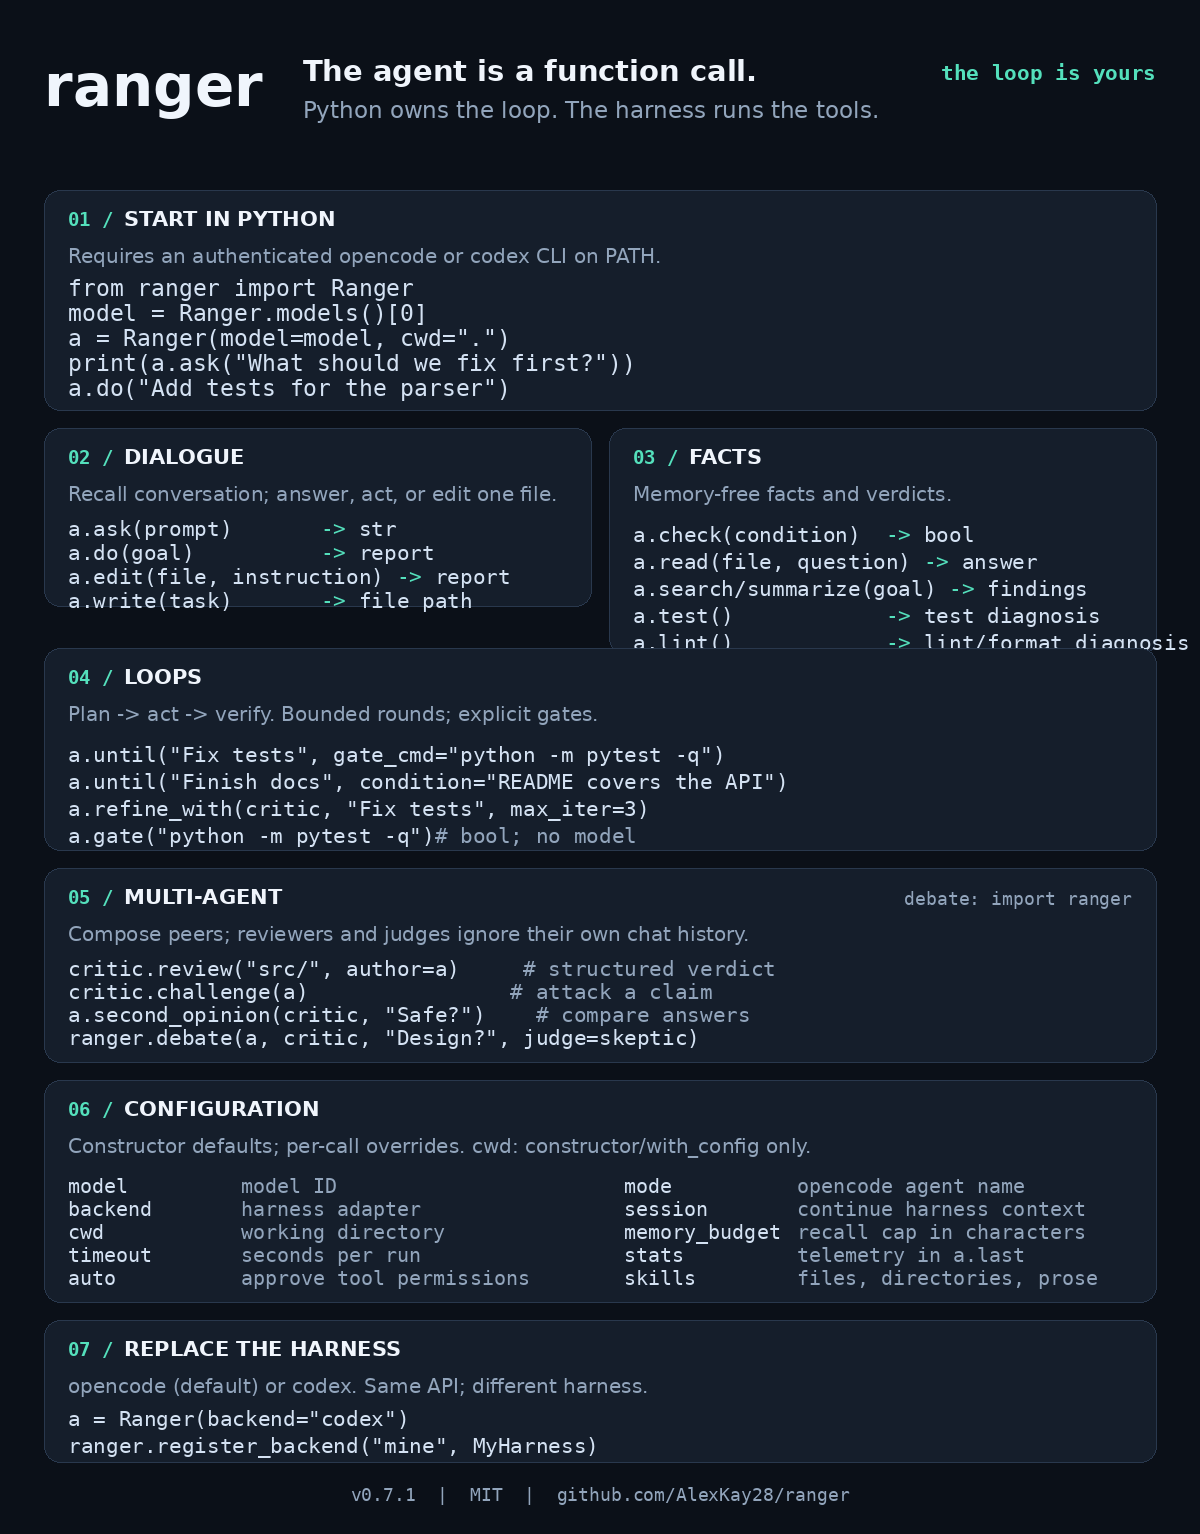
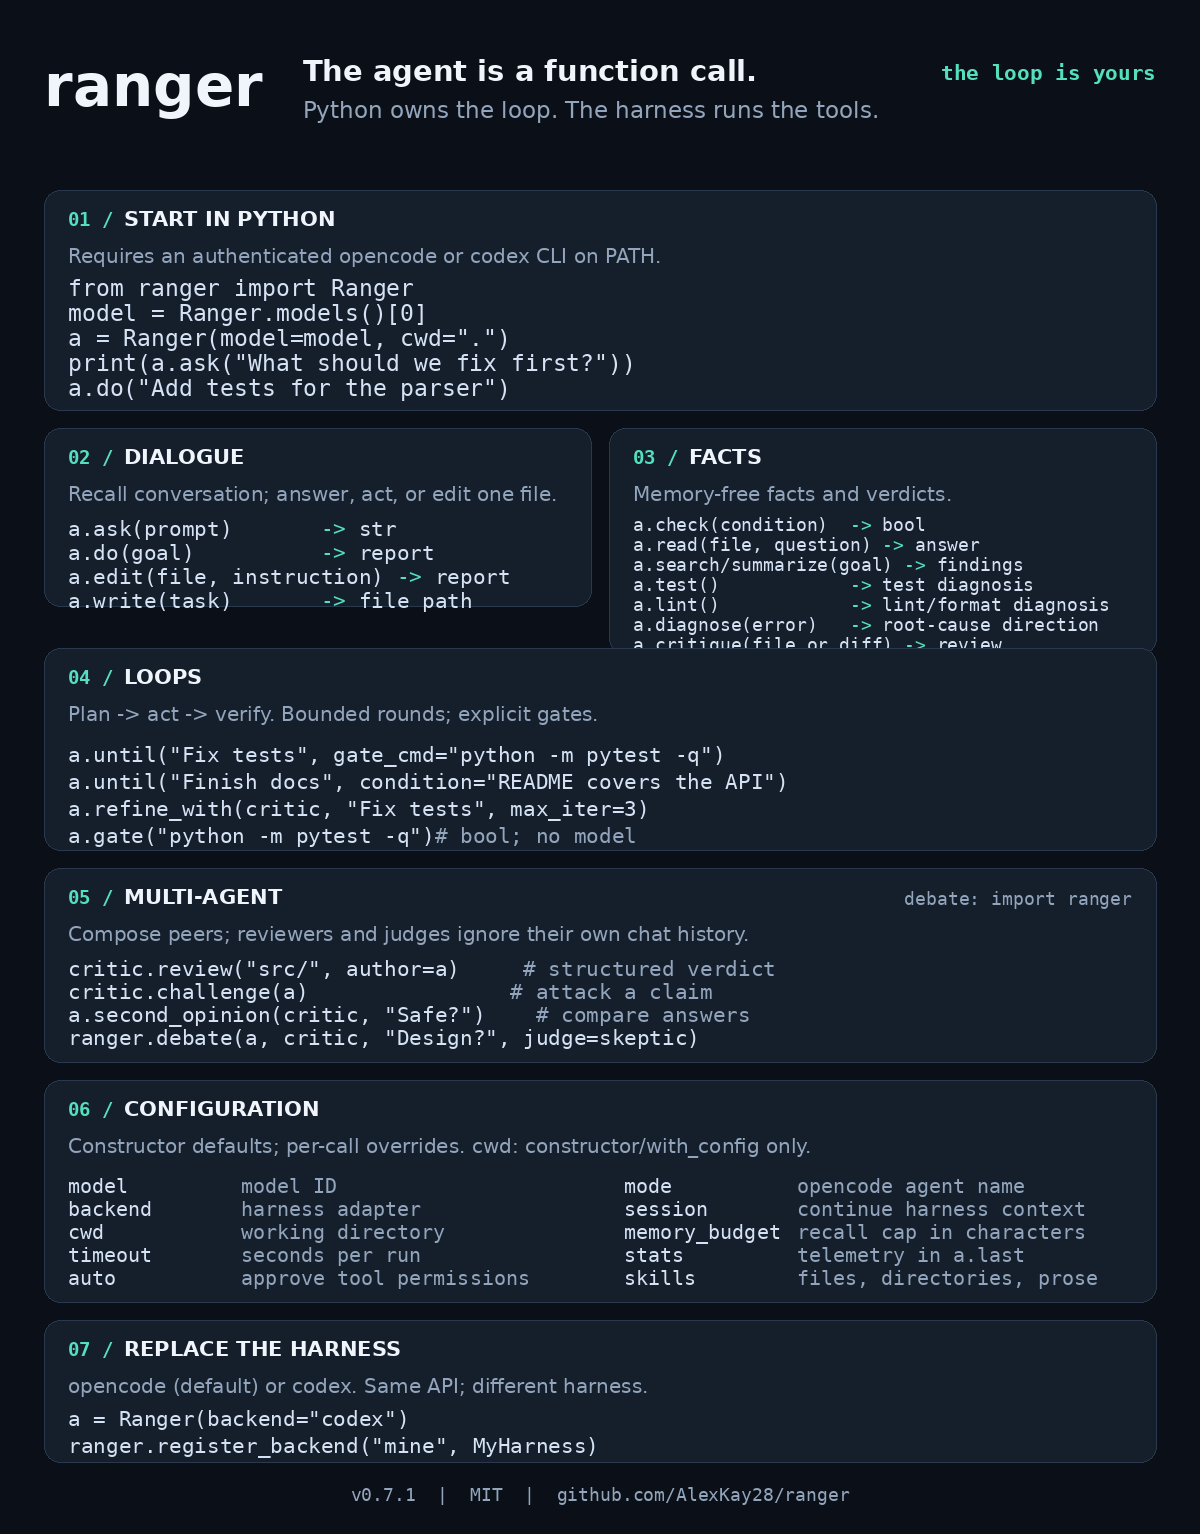
auto evolve (cycle 5): Add a read-only `diagnose(error)` command for pasted tracebacks and error logs
Self-directed improvement picked and resolved by scripts/evolve_loop.py via ranger.resolve(); gate: full pytest suite green + real-change check.

Original proposal: Thinking: **Clarifying exact line read requirement**
Thinking: **Evaluating read-only command alternatives**
Thinking: **Adding diagnose(error) for traceback analysis**
TITLE: Add a read-only `diagnose(error)` command for pasted tracebacks and error logs
WHY: Let library users turn a production exception or command failure into an evidence-backed root-cause and minimal-fix diagnosis without rerunn

Changed region(s): [[0.5242, 0.337, 0.925, 0.4289], [0.9558, 0.3983, 0.9867, 0.4289]]

diff --git a/tests/test_ranger.py b/tests/test_ranger.py
@@ -288,6 +288,7 @@ def test_command_prompt_contents(tmp_path):
         agent.search("where is config parsed")
         assert agent.test(timeout=42) == "ok"
         assert agent.lint(timeout=42) == "ok"
+        assert agent.diagnose("ValueError: bad token", timeout=42) == "ok"
         assert agent.critique("src/parser.py", timeout=42) == "ok"
 
     assert str(target.resolve()) in prompts[0]
@@ -306,10 +307,14 @@ def test_command_prompt_contents(tmp_path):
     assert "lint and format checks" in prompts[6]
     assert "do NOT modify" in prompts[6]
     assert "minimal remediation" in prompts[6]
-    assert "src/parser.py" in prompts[7]
+    assert "ValueError: bad token" in prompts[7]
     assert "do NOT modify" in prompts[7]
-    assert "security" in prompts[7]
-    assert "missing tests" in prompts[7]
+    assert "root cause" in prompts[7]
+    assert "minimal fix direction" in prompts[7]
+    assert "src/parser.py" in prompts[8]
+    assert "do NOT modify" in prompts[8]
+    assert "security" in prompts[8]
+    assert "missing tests" in prompts[8]
 
 
 def test_test_returns_harness_diagnosis_and_forwards_overrides():
@@ -341,6 +346,29 @@ def test_lint_is_pure_and_forwards_overrides():
     assert cmd[cmd.index("--model") + 1] == "fast/model"
     assert m.call_args.kwargs["timeout"] == 42
     assert agent.last["label"] == "lint"
+
+
+def test_diagnose_is_pure_and_forwards_overrides():
+    agent = Ranger(stats=True, session="ses_hist")
+    agent.context = [{"role": "user", "content": "previous answer"}]
+    payload = ('{"sessionID":"ses_diagnose","part":{"type":"text",'
+               '"text":"The parser rejects an empty token."}}')
+    error = "Traceback (most recent call last):\nValueError: bad token"
+    with mock.patch("ranger.subprocess.run", return_value=fake_run(payload)) as m:
+        assert agent.diagnose(error, model="fast/model", timeout=42) == (
+            "The parser rejects an empty token."
+        )
+    cmd = m.call_args.args[0]
+    prompt = cmd[-1]
+    assert error in prompt
+    assert "do NOT modify" in prompt
+    assert "evidence-backed" in prompt
+    assert "root cause" in prompt
+    assert "Previous interaction" not in prompt
+    assert "ses_hist" not in cmd
+    assert cmd[cmd.index("--model") + 1] == "fast/model"
+    assert m.call_args.kwargs["timeout"] == 42
+    assert agent.last["label"] == "diagnose"
 
 
 def test_critique_is_pure_and_forwards_overrides():

diff --git a/ranger/__init__.py b/ranger/__init__.py
@@ -420,7 +420,7 @@ register_backend("openhands", _OpenHandsBackend)
 # Commands whose answers must be pure facts about the world, never colored
 # by conversation history (paradigm law: context memory colors dialogues,
 # never facts). Recall is skipped for these; recording still happens.
-_PURE_LABELS = frozenset({"check", "critique", "lint", "read", "search", "summarize", "test"})
+_PURE_LABELS = frozenset({"check", "critique", "diagnose", "lint", "read", "search", "summarize", "test"})
 
 # How many characters of recorded context a run may recall, max.
 _MEMORY_BUDGET = 20000
@@ -919,6 +919,22 @@ class Ranger:
             "that outcome and the command(s) run."
         )
         return self._run(prompt, label="lint", **ov)
+
+    def diagnose(self, error: str, **ov) -> str:
+        """Diagnose pasted traceback or error-log text without modifying files.
+
+        The agent may inspect relevant local code, but this command is
+        history- and session-independent and never permits filesystem changes.
+        """
+        prompt = (
+            "Diagnose this pasted traceback or error log from the current project:\n\n"
+            f"{error}\n\n"
+            "You may inspect relevant local code to establish the cause. Reading and "
+            "analysis only — do NOT modify, create, delete, or rename any file. Give "
+            "an evidence-backed likely root cause, cite the relevant error or code "
+            "evidence, and propose the minimal fix direction."
+        )
+        return self._run(prompt, label="diagnose", **ov)
 
     def critique(self, file_or_diff: str, **ov) -> str:
         """Review a file path or diff for risks without modifying anything.

diff --git a/tests/test_docs.py b/tests/test_docs.py
@@ -81,7 +81,7 @@ def test_cheatsheet_is_embedded_and_covers_the_shipped_surface():
     assert width >= 1000 and height >= 1200
     # Public commands and the extensibility seam must occur in the source
     # data that renders the card. New API -> this gate reminds us to redraw.
-    for command in ("ask", "do", "edit", "write", "check", "critique", "lint", "read", "search", "summarize", "test",
+    for command in ("ask", "do", "edit", "write", "check", "critique", "diagnose", "lint", "read", "search", "summarize", "test",
                     "gate", "until", "review", "challenge", "second_opinion",
                     "refine_with", "debate", "register_backend"):
         assert command in CHEATSHEET_SOURCE, (
@@ -134,7 +134,7 @@ def test_every_shipped_command_has_an_example_usage():
     all_example_text = "\n".join(
         p.read_text() for p in sorted((REPO / "examples").rglob("*.py"))
     )
-    for command in ("ask", "read", "summarize", "write", "do", "edit", "search", "test", "lint", "critique", "check",
+    for command in ("ask", "read", "summarize", "write", "do", "edit", "search", "test", "lint", "diagnose", "critique", "check",
                     "gate", "until", "models", "with_config",
                     # multi-agent interactions (v0.6)
                     "review", "challenge", "second_opinion", "refine_with",

diff --git a/tests/test_logic.py b/tests/test_logic.py
@@ -160,6 +160,7 @@ def test_purity_map_for_every_command():
         ("summarize", lambda a: a.summarize("x.py")),
         ("test", lambda a: a.test()),
         ("lint", lambda a: a.lint()),
+        ("diagnose", lambda a: a.diagnose("ValueError: bad token")),
         ("review", lambda a: a.review("x")),
     ]
     import tempfile
@@ -181,9 +182,10 @@ def test_purity_map_for_every_command():
                 prompt = m.call_args.args[0][-1]
             recalls = "HIST" in prompt
             expectations = {"ask": True, "do": True, "edit": True, "write": True,
-                               "check": False, "search": False,
-                               "summarize": False, "test": False, "lint": False,
-                               "review": False}
+                                "check": False, "search": False,
+                                "summarize": False, "test": False, "lint": False,
+                                "diagnose": False,
+                                "review": False}
             assert recalls == expectations[label], (
                 f"{label}: recall={recalls}, expected {expectations[label]}")
         # write needs a real target; summarize needs the cwd to exist

diff --git a/scripts/cheatsheet.py b/scripts/cheatsheet.py
@@ -99,8 +99,12 @@ CARDS = [
             "a.search/summarize(goal) -> findings",
             "a.test()            -> test diagnosis",
             "a.lint()            -> lint/format diagnosis",
+            "a.diagnose(error)   -> root-cause direction",
             "a.critique(file_or_diff) -> review",
         ],
+        "code_size": 18,
+        "code_y": 86,
+        "code_step": 20,
     },
     {
         "bounds": (44, 648, 1112, 202),

diff --git a/examples/monitoring/project_health.py b/examples/monitoring/project_health.py
@@ -28,6 +28,9 @@ def main() -> None:
     print("\nhealth script role:\n", agent.read(
         "project_health.py", "What read-only checks does this script perform?"
     ))
+    print("\nexample error diagnosis:\n", agent.diagnose(
+        "Traceback (most recent call last):\nValueError: invalid project config"
+    ))
     print("\nagent telemetry:", agent.last)
 
 

diff --git a/docs/API.md b/docs/API.md
@@ -100,7 +100,7 @@ ranger.Ranger(
 
 ### Child process environment
 
-Every harness child process (the `ask`/`do`/`edit`/`write`/`read`/`search`/`summarize`/`test`/`lint`/`critique`/`check`
+Every harness child process (the `ask`/`do`/`edit`/`write`/`read`/`search`/`summarize`/`test`/`lint`/`diagnose`/`critique`/`check`
 CLI runs, and the `gate()` shell command) sees exactly this environment:
 
 1. **The full inherited `os.environ` of your Python process** — nothing is
@@ -126,7 +126,7 @@ the child by design.
 
 ### Per-call overrides
 
-Every command method (`ask`, `summarize`, `read`, `write`, `do`, `edit`, `search`, `test`, `lint`, `critique`, `check`,
+Every command method (`ask`, `summarize`, `read`, `write`, `do`, `edit`, `search`, `test`, `lint`, `diagnose`, `critique`, `check`,
 `until`) accepts any of the run settings above as a keyword, applying it to
 that single call only — **except `cwd`**, which is agent identity and is
 constructor/`with_config`-only. Unknown keywords raise `TypeError`
@@ -143,7 +143,7 @@ immediately — typos fail loudly, never silently. Priority rules:
 - `effort="high"` implies `--thinking` on that run unless nothing stronger
   was requested; `effort` ∈ {low, medium, high} — anything else raises
   (`ValueError` at construction, `TypeError` per-call).
-- **Fact commands run pure**: `check`, `critique`, `lint`, `read`, `search`, `summarize` and `test` drop
+- **Fact commands run pure**: `check`, `critique`, `diagnose`, `lint`, `read`, `search`, `summarize` and `test` drop
   `session=` and skip history recall — a verdict is about the repo, not
   the chat.
 
@@ -240,6 +240,14 @@ diagnosis. The agent must not modify, create, delete, or rename files; on
 failure it reports the relevant check and error evidence plus minimal
 remediation. Like other fact commands, `lint()` runs history- and
 harness-session-independent.
+
+### `diagnose(error, **ov) -> str`
+
+Diagnoses pasted traceback or error-log text without rerunning a command. The
+agent may inspect relevant local code to establish the cause, then returns an
+evidence-backed likely root cause and minimal fix direction. It must not
+modify, create, delete, or rename files; like other fact commands, `diagnose()`
+runs without recalled history or a harness session.
 
 ### `critique(file_or_diff, **ov) -> str`
 
@@ -457,7 +465,7 @@ for r in results:
   recall the most recent messages that fit inside `memory_budget`
   characters, prepended as a `## Previous interaction` block before the
   `## Current request`.
-- **Fact commands run pure**: `check`, `critique`, `lint`, `read`, `search`, `summarize` and `test` never see
+- **Fact commands run pure**: `check`, `critique`, `diagnose`, `lint`, `read`, `search`, `summarize` and `test` never see
   conversation history — a verdict must not be a function of chat
   (paradigm law: context memory colors your dialogues, never your facts).
 - `memory=False` (constructor or single call) disables both recording and
@@ -773,6 +781,7 @@ Each command wraps your input in a frozen prompt the agent must honor:
 - `search`: grep for `{goal}`, reply `file:line` report, **no code changes**.
 - `test`: run the project's test suite, diagnose failures, **no file changes**.
 - `lint`: run existing lint and format checks, diagnose failures, **no file changes**.
+- `diagnose`: inspect pasted `{error}` text and relevant local code, report root cause and minimal fix direction, **no file changes**.
 - `critique`: review `{file_or_diff}` for bugs, risks, security, and missing tests, **no file changes**.
 - `check`: decide TRUE/FALSE for `{condition}`, must verify, answer a standalone YES/NO line.
 - `until`: each iteration, "name ONE concrete next step, one line."

diff --git a/SKILL.md b/SKILL.md
@@ -26,7 +26,7 @@ it returns. Python, not an agent runtime, owns the control flow.
 | Make a filesystem change | `do(goal)` | A claim that a change happened |
 | Change one existing file only | `edit(file, instruction)` | `do()` free rein |
 | Produce one document | `write(task, path=...)` | Parsing prose for a filename |
-| Read-only codebase findings | `search(goal)` / `summarize(file)` / `read(file, question)` / `test()` / `lint()` / `critique(file_or_diff)` | `do()` |
+| Read-only codebase findings | `search(goal)` / `summarize(file)` / `read(file, question)` / `test()` / `lint()` / `diagnose(error)` / `critique(file_or_diff)` | `do()` |
 | Agent-verified fact | `check(condition)` | Truthy prose; it must parse YES/NO |
 | Deterministic acceptance | `gate(shell_command)` | An agent's opinion |
 | Bounded repair loop | `until(..., gate_cmd=..., max_iter=N)` | An unbounded `while` loop |
@@ -57,7 +57,7 @@ an exit-code boolean and does not call a model.
   interrupt message; nothing is claimed complete.
 - `ask`, `do`, `edit`, and `write` record and recall bounded `agent.context`. Treat it
   as conversational color, never as a fact store.
-- `check`, `critique`, `lint`, `read`, `search`, `summarize`, `test`, `review`, challenge judgments, and debate
+- `check`, `critique`, `diagnose`, `lint`, `read`, `search`, `summarize`, `test`, `review`, challenge judgments, and debate
   judges are memory- and session-free by contract. Do not try to override that
   purity with `session=`.
 - A model answer is not a success signal. `check()` rejects ambiguous,

diff --git a/docs/commands.md b/docs/commands.md
@@ -42,7 +42,7 @@ Wipe recorded context; returns what was cleared.
 All commands auto-record their exchange into `agent.context` (OpenAI message
 format); dialogue commands (`ask`, `do`, `edit`, `plan`, `write`, `context_*`) also recall
 recent history within a character budget, while fact commands (`check`, `critique`,
-`lint`, `read`, `search`, `summarize`, `test`) always run history- and session-independent — context
+`diagnose`, `lint`, `read`, `search`, `summarize`, `test`) always run history- and session-independent — context
 memory colors your dialogues, never your facts. `memory=False` on the
 constructor or any single call disables recording and recall.
 
@@ -158,6 +158,16 @@ harness session.
 
 ```python
 agent.lint()
+```
+
+### `diagnose(error) -> str`
+Diagnose a pasted traceback or error log without rerunning a command. The agent
+may inspect relevant local code, then returns an evidence-backed likely root
+cause and minimal fix direction. It never modifies files and runs without
+recalled history or a harness session.
+
+```python
+agent.diagnose("ValueError: invalid token")
 ```
 
 ### `critique(file_or_diff) -> str`

diff --git a/README.md b/README.md
@@ -86,6 +86,7 @@ agent.edit("src/parser.py", "Handle empty input")   # -> one bounded file change
 agent.search("where do we parse config?")            # -> multiline findings report
 agent.test()                              # -> read-only test failure diagnosis
 agent.lint()                              # -> read-only lint/format diagnosis
+agent.diagnose("ValueError: invalid token")  # -> root cause and minimal fix direction
 agent.critique("src/parser.py")           # -> focused read-only code review
 agent.ask("anything at all")         # -> raw prompt, raw answer
 agent.check("all tests pass")        # -> YES/NO verdict as a bool
@@ -148,7 +149,7 @@ ranger.Ranger(memory=False)      # or a fully stateless agent
 ```
 
 Context memory colors your dialogues, never your facts: `ask`/`do`/`edit`/`write`
-recall the recent conversation; `check`/`critique`/`lint`/`read`/`search`/`summarize`/`test` always run
+recall the recent conversation; `check`/`critique`/`diagnose`/`lint`/`read`/`search`/`summarize`/`test` always run
 history-independent, so a verdict is about the repo, not the chat
 ([PARADIGM.md](docs/PARADIGM.md), law 4).
 

diff --git a/docs/ARCHITECTURE.md b/docs/ARCHITECTURE.md
@@ -59,9 +59,10 @@ register) from plain Python. You write code, not chat.
    implement `build_cmd()` (options → CLI argv) and `parse_output()`
    (stream → answer + optional telemetry).
 3. **State is explicit and pure where it matters.** `agent.context` is
-   a visible message list; dialogue commands recall bounded recent
-    history, while fact commands (`check`, `read`, `search`, `summarize`,
-   `review`) and judges run history- and session-free — a verdict must
+    a visible message list; dialogue commands recall bounded recent
+     history, while fact commands (`check`, `critique`, `diagnose`, `lint`,
+    `read`, `search`, `summarize`, `test`, `review`) and judges run history-
+    and session-free — a verdict must
    not be a function of chat. One agent's words reach another only as
    explicitly-labeled *claims to verify*.
 

diff --git a/docs/PARADIGM.md b/docs/PARADIGM.md
@@ -50,7 +50,7 @@ Python control flow**. No DSL, no graph JSON, no hidden runtime.
    ambient identity: sessions are opt-in continuation, not hidden state.
    Corollary — **context memory colors your dialogues, never your facts**:
    recall applies only to dialogue commands (`ask`, `do`, `write`,
-    `context_*`); `check`, `critique`, `read`, `search`, `summarize` and `test` always run
+     `context_*`); `check`, `critique`, `diagnose`, `lint`, `read`, `search`, `summarize` and `test` always run
    history-independent, because a verdict must not be a function of chat.
    The same corollary governs multi-agent interactions: reviewers,
    challengers and judges run memory- and session-free, and one agent's
